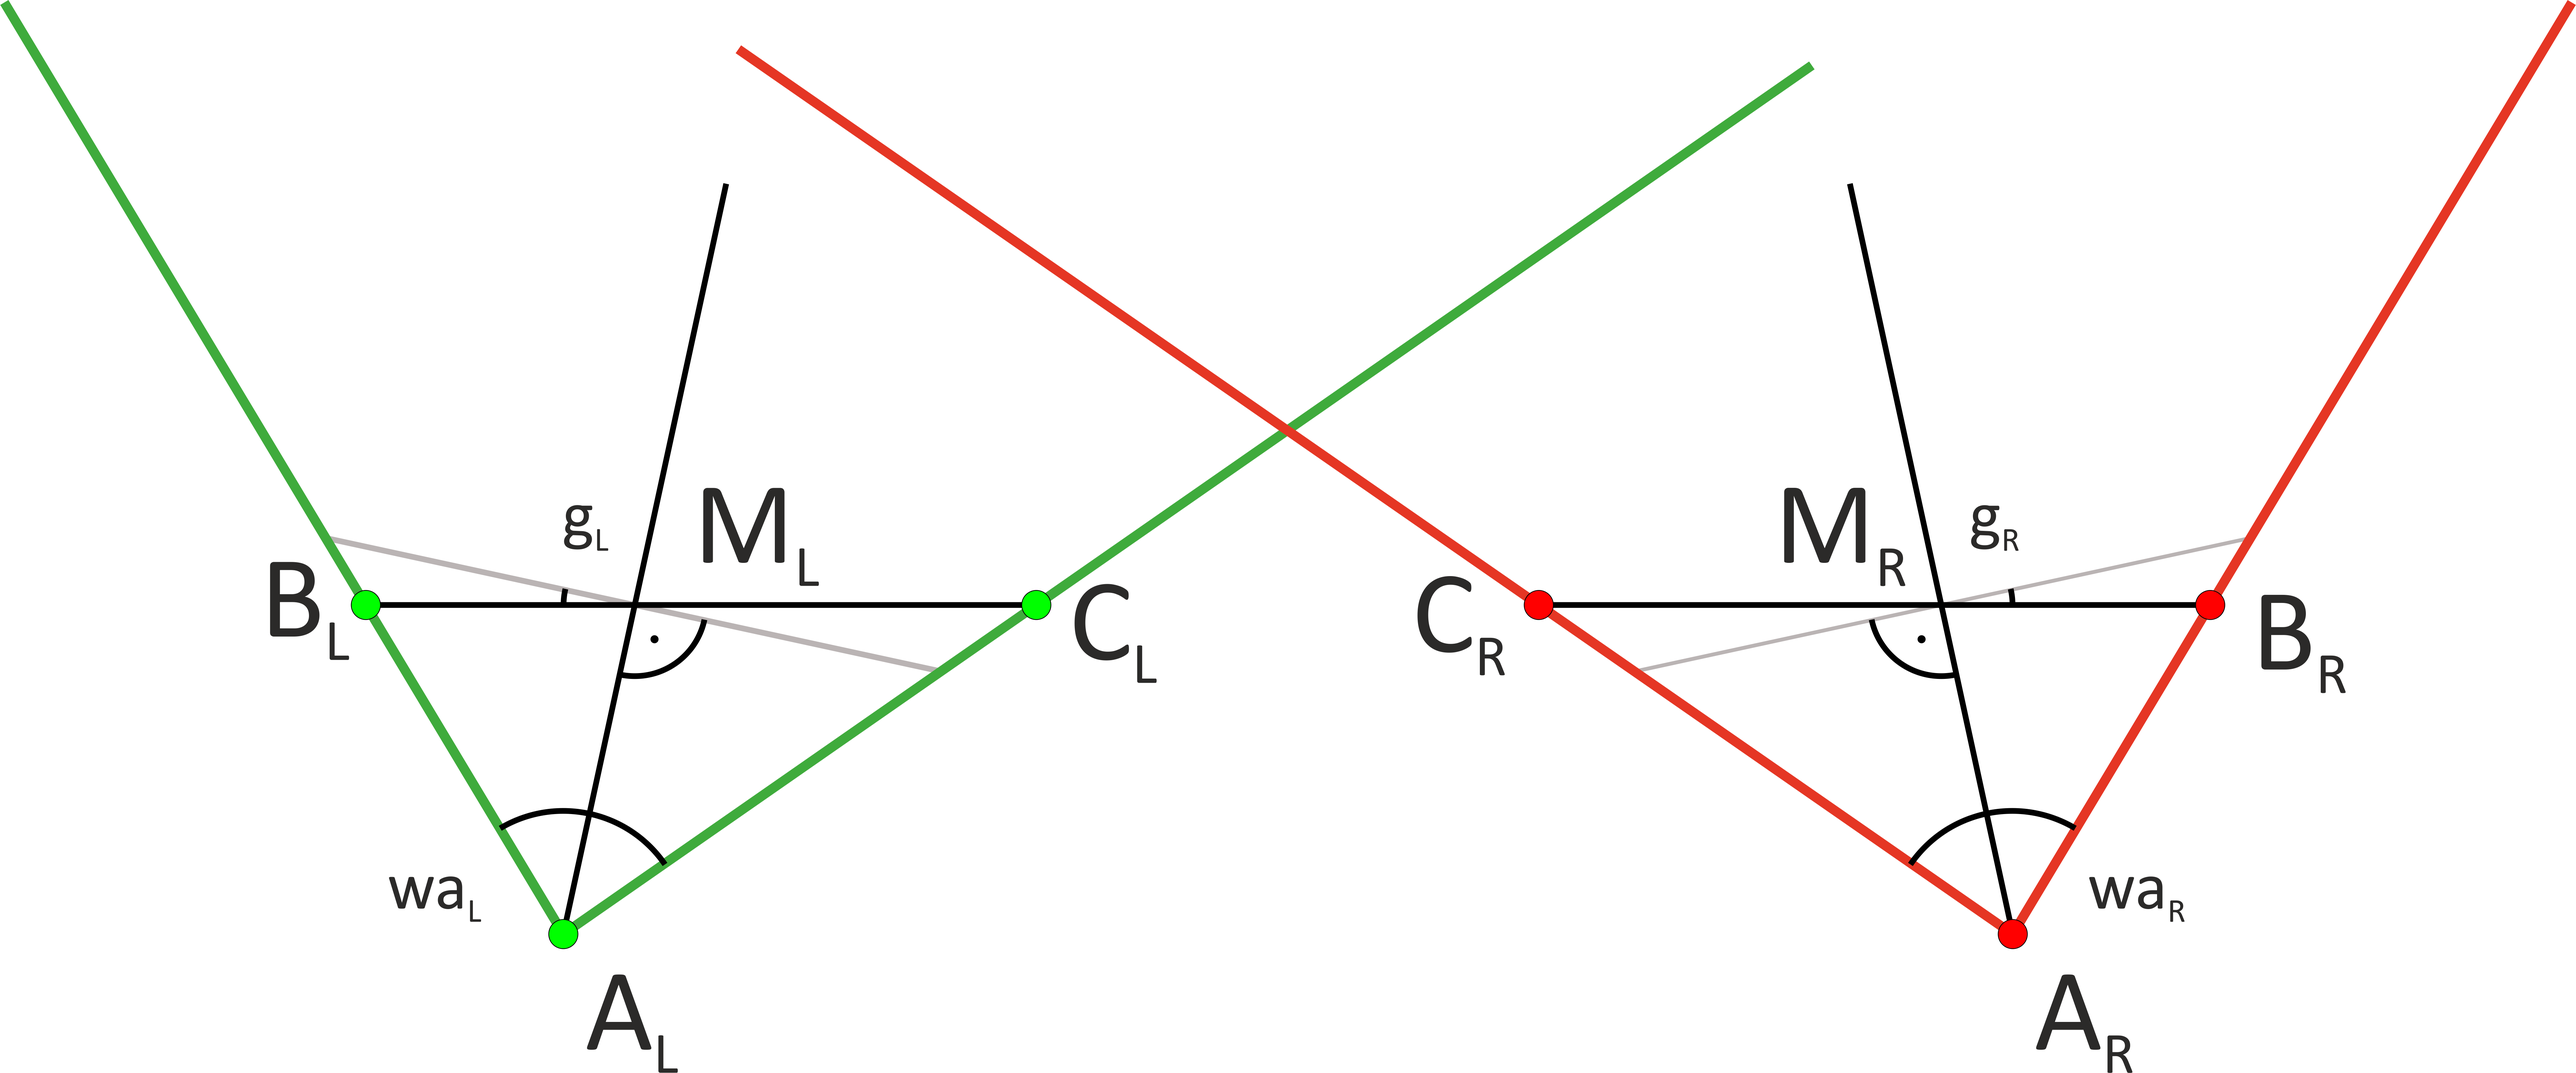
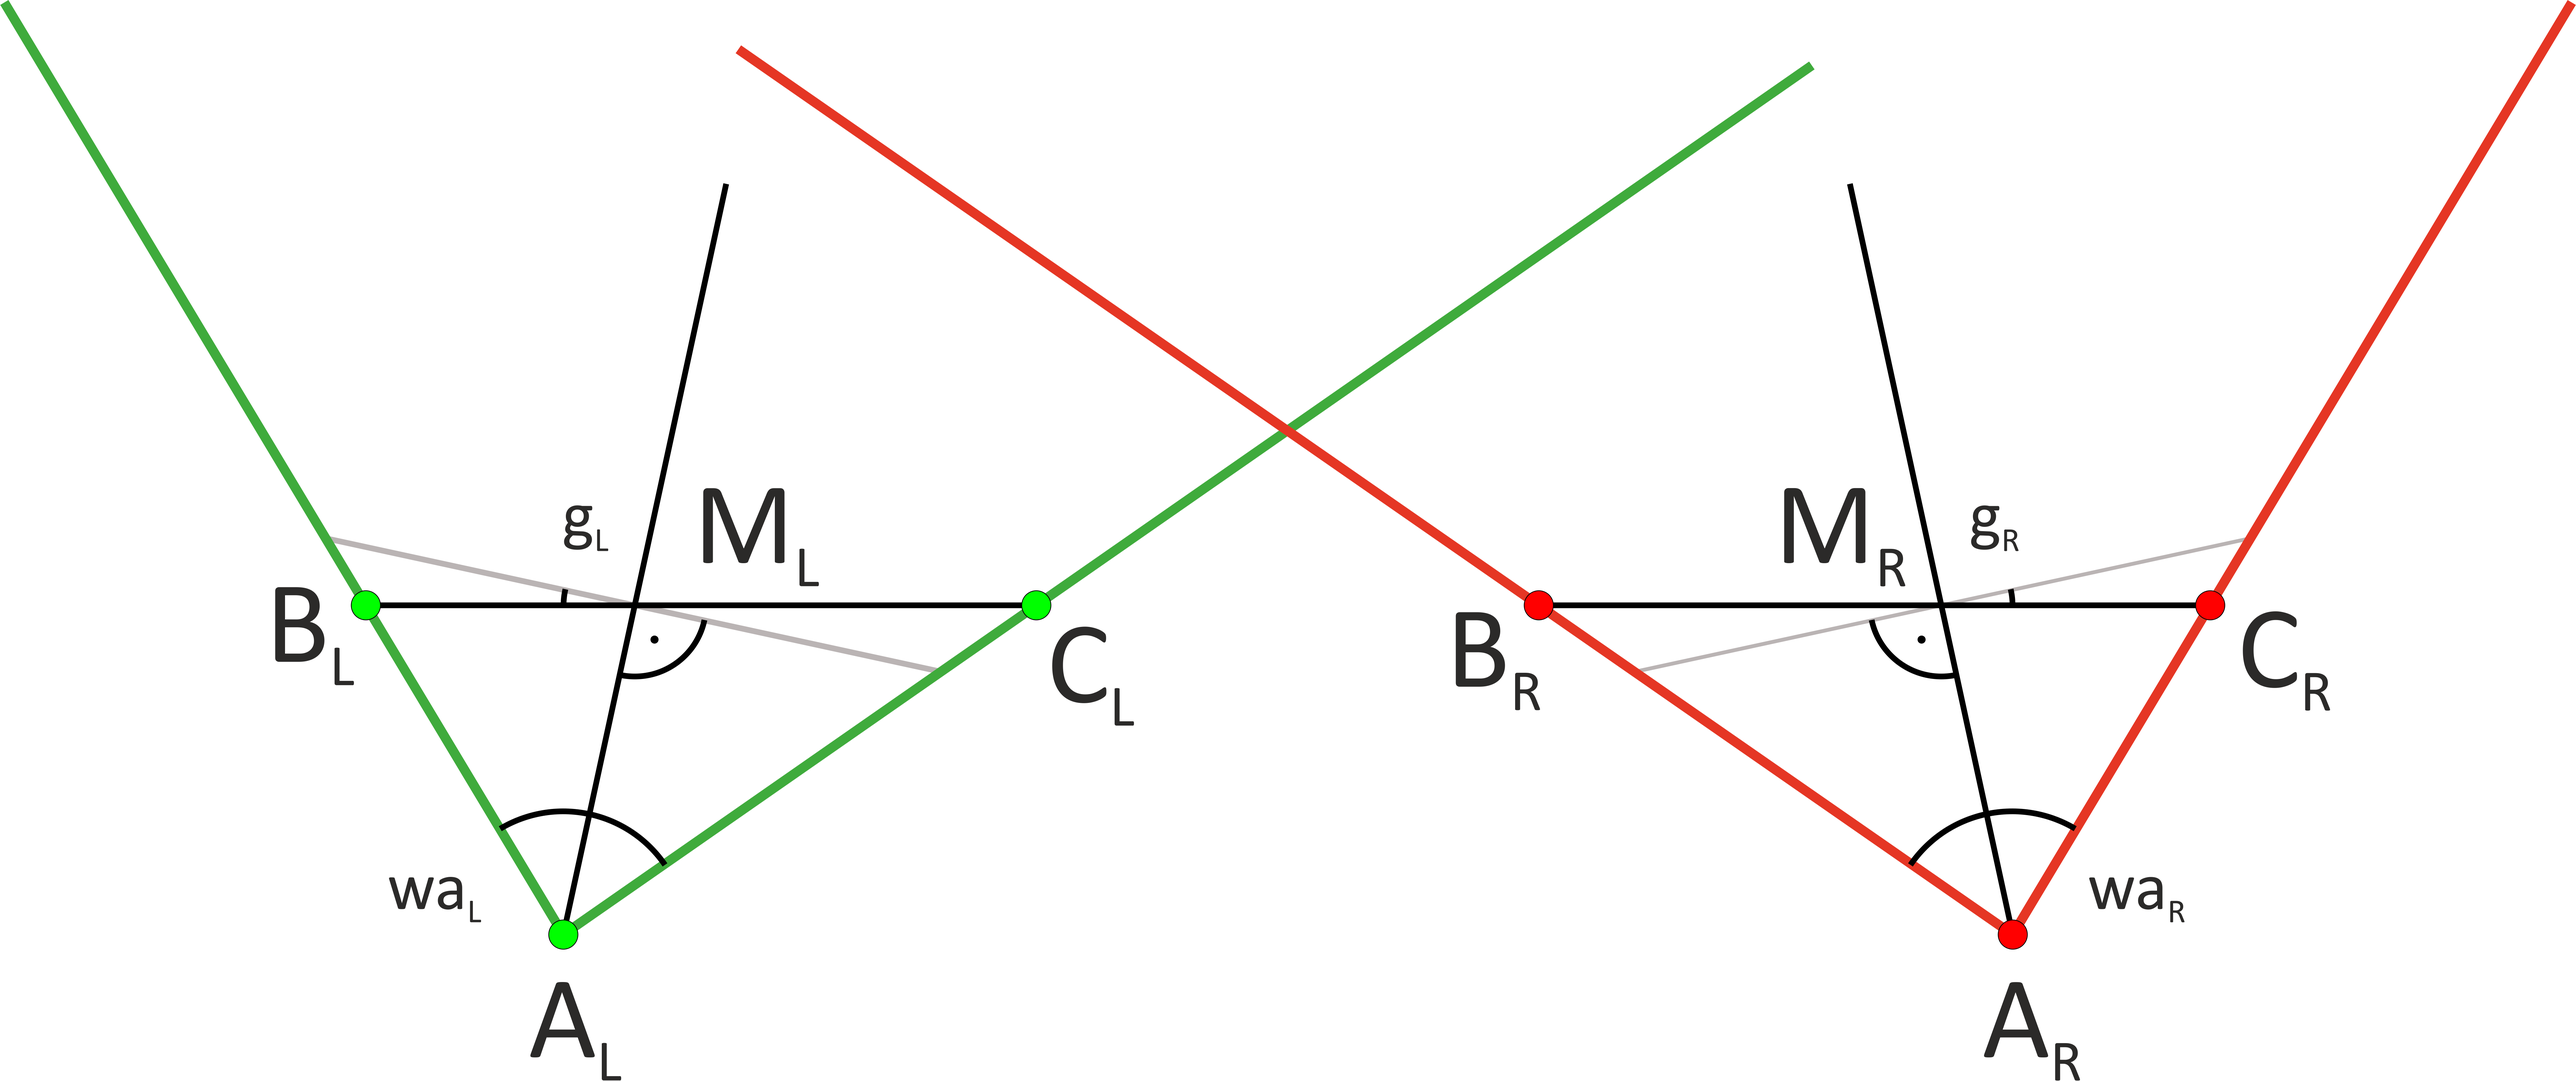
Referenz hinzugeh[gt + Bild noch ein mal korregiert

diff --git a/content/calibration.tex b/content/calibration.tex
@@ -16,7 +16,7 @@ Letzteres ist nur durch das Vorhandensein zweier Augen möglich.
 Jedes Auge bekommt ein eigenes Bild und sendet dieses ins Gehirn.
 Dort werden beide Bilder zu einer Raumwahrnehmung zusammengefasst.
 Hierbei gibt es Entfernungsbereiche in denen das stereoskopische Sehen die wichtigste Rolle einnimmt.
-Eine genauere Beschreibung ist im Abbildung \ref{fig:3D} zu finden.
+Eine genauere Beschreibung ist im Abbildung \ref{fig:3D} \cite{stereo} zu finden.
 
 \begin{figure}[h]
    \centering
@@ -24,7 +24,6 @@ Eine genauere Beschreibung ist im Abbildung \ref{fig:3D} zu finden.
    \caption{stereoskopisches Sehen}
    \label{fig:3D}
 \end{figure}
-\todo{Hier bitte noch die Quelle angeben, die hat Ecaterina noch.}
 
 Da sich die Bilder des linken und rechten Auges sich von der Perspektive unterscheiden, kann das menschliches Gehirn aus diesen Unterschiede die Positionen, Formen und Größen der Objekte ermitteln.
 
